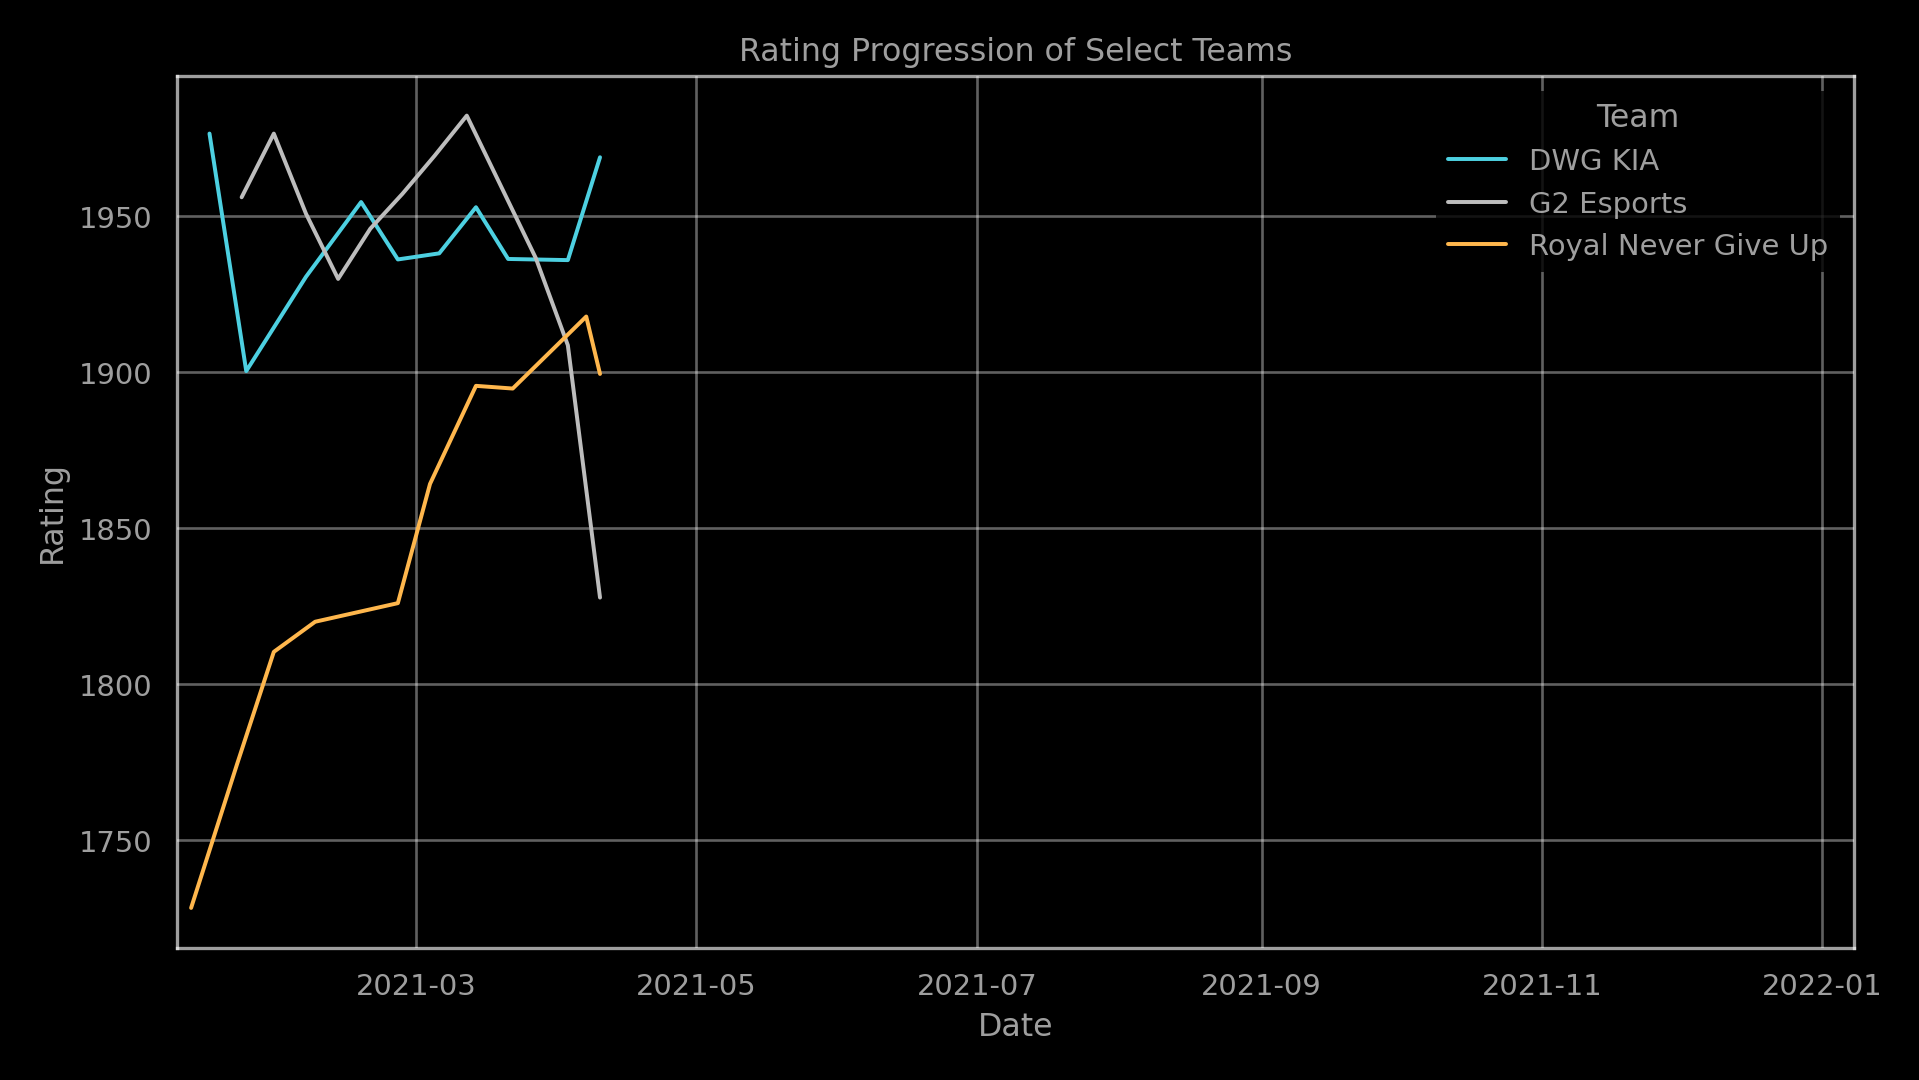
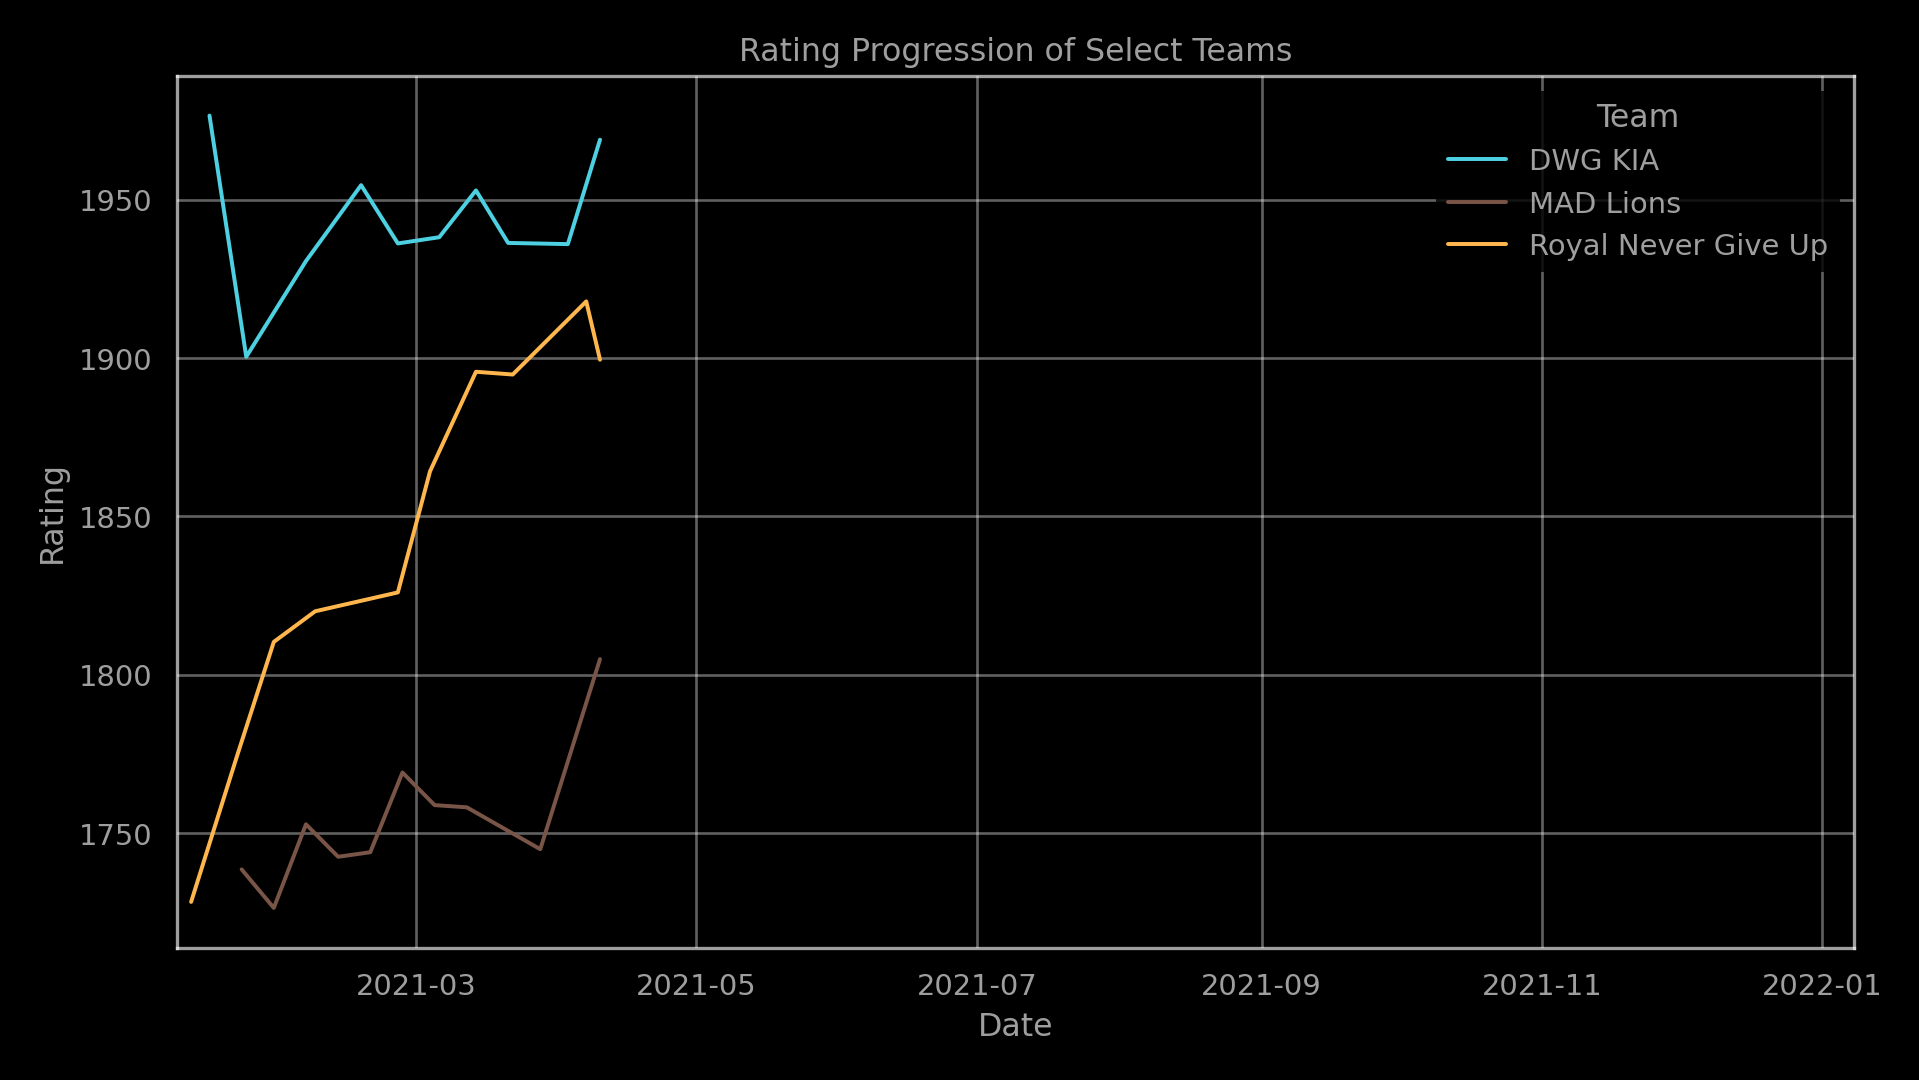
Update plotted teams in line graph.

diff --git a/main.py b/main.py
@@ -43,10 +43,7 @@ if __name__ == "__main__":
 
         plot_teams = [
             ("DWG KIA", "#4dd0e1"),  # this worlds 1st  (cyan)
-            # ("Suning", "#ffc107"),  # this worlds 2nd  (amber)
-            # ("FunPlus Phoenix", "#f44336"),  # last worlds 1st  (red)
-            ("G2 Esports", "#bdbdbd"),  # curr lec 1st  (gray)
-            # ("DWG KIA", "#00bcd4"),  # curr lck 1st  (cyan)
+            ("MAD Lions", "#795548"),  # curr lec 1st  (brown)
             ("Royal Never Give Up", "#ffb74d"),  # curr lpl 1st  (orange)
             # ("EDward Gaming", "#795548"),  # curr lpl 1st  (brown)
             # Note: no LCS teams because they haven't won worlds before.
